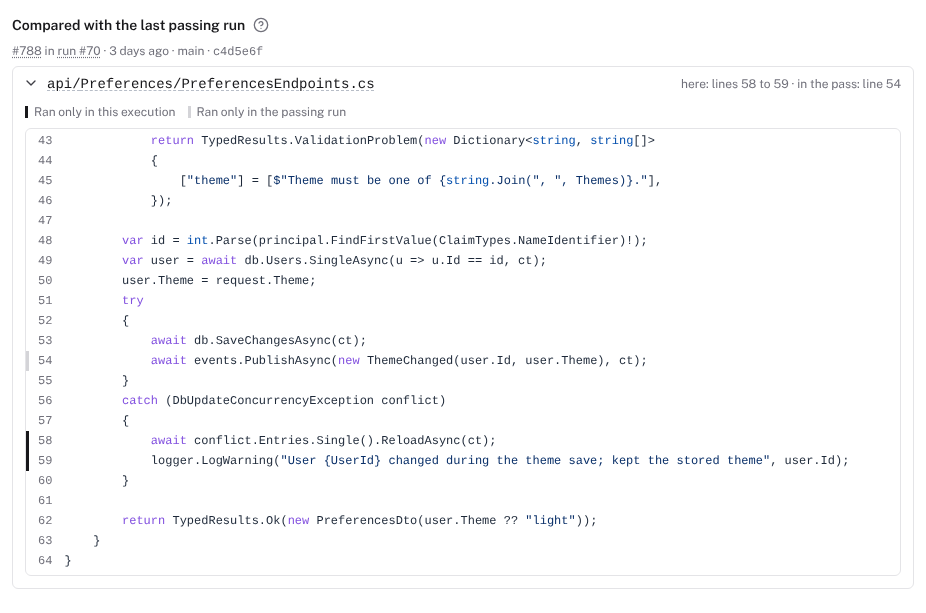
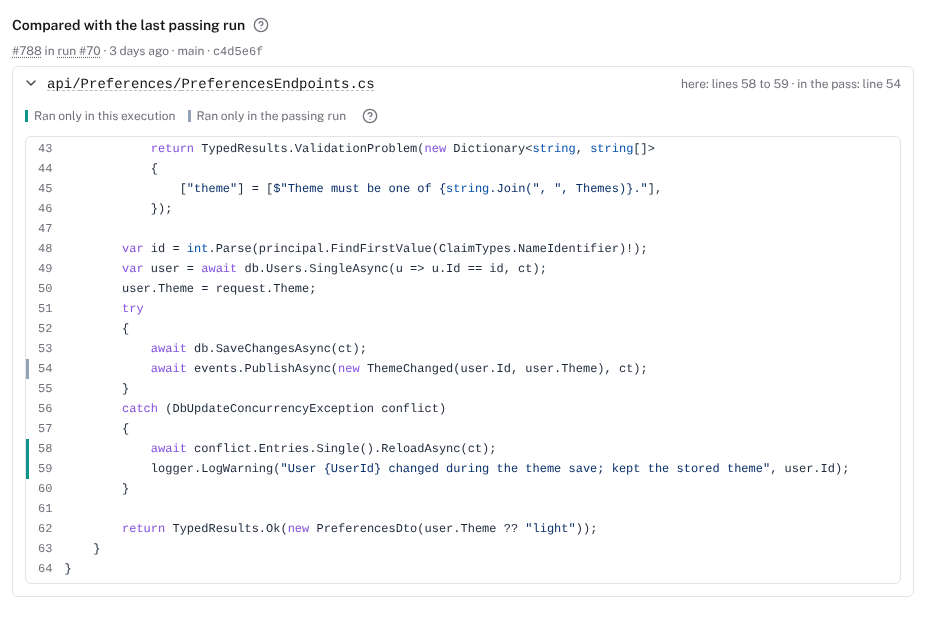
fix(app): capture feature screenshots on a freshly seeded database
The screenshot harness booted its server on the dev database, which it seeded
only when the file was missing and never refreshed. The scenes name demo rows
by id, so a dev database seeded before the seed changed stopped matching them:
in one seeded before the users story carried coverage, execution 711 is still
failed but records no coverage, its Coverage section lists no file, and the
execution-coverage scenes timed out waiting for the suspect mark.

A booted run now seeds a throwaway database, .data/screens/, from the current
demo seed (regenerated when stale), as the detail-page measurement already
does, and leaves the dev database alone. --url still drives a server's own
data.

Recapture the docs illustrations of the coverage source view with its teal
and slate bars: execution-coverage, coverage-divergence and coverage-file.

Claude-Session: https://claude.ai/code/session_01RYHL2vVro4BRQkws1SdhP5

diff --git a/apps/application/AGENTS.md b/apps/application/AGENTS.md
@@ -228,8 +228,12 @@ remove one without updating the scene. Capture waits on `settle()` (fonts, netwo
 on a timeout, and a capture that would not fit the viewport is an **error naming the viewport to use** — never a
 silently cropped image.
 
+The server it boots runs on a throwaway database, `.data/screens/`, seeded afresh from the current demo seed on every
+run: scenes name demo rows by id, which a dev database seeded once and kept stops matching when the seed changes. Your
+dev database is left alone; `--url` drives a server's own data instead.
+
 `--freeze-now <iso>` pins the browser clock so relative timestamps stop moving and two runs produce byte-identical
-PNGs; combine it with a freshly seeded database when a diff needs to mean a real UI change.
+PNGs; with the freshly seeded database a booted run gets, a diff then means a real UI change.
 
 Annotations (boxes, arrows, numbered steps, callouts, spotlights, redactions) come from `scripts/screenshot-annotations.mjs`
 — an in-repo SVG overlay, no runtime dependency. A scene with an `annotate` list writes both the plain image and a

diff --git a/.claude/skills/run-app/SKILL.md b/.claude/skills/run-app/SKILL.md
@@ -14,8 +14,8 @@ repo root).
 
 ## Look at one page (the common case)
 
-One command boots a throwaway dev server on port 3050, creates and seeds the dev database on the
-first run, opens the route, waits for hydration and for the page to settle, screenshots it into
+One command boots a throwaway dev server on port 3050 on a database seeded afresh from the current
+demo seed (`.data/screens/`, so your dev database is left alone), opens the route, waits for hydration and for the page to settle, screenshots it into
 `.screens/` (gitignored) and tears the server down:
 
 ```bash
